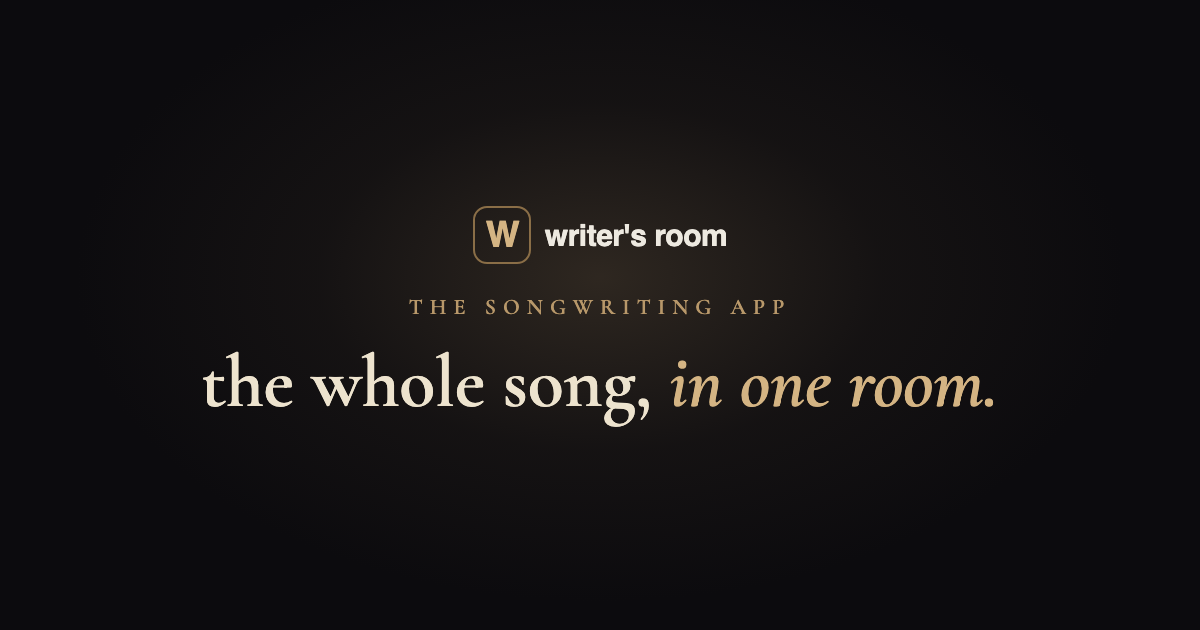
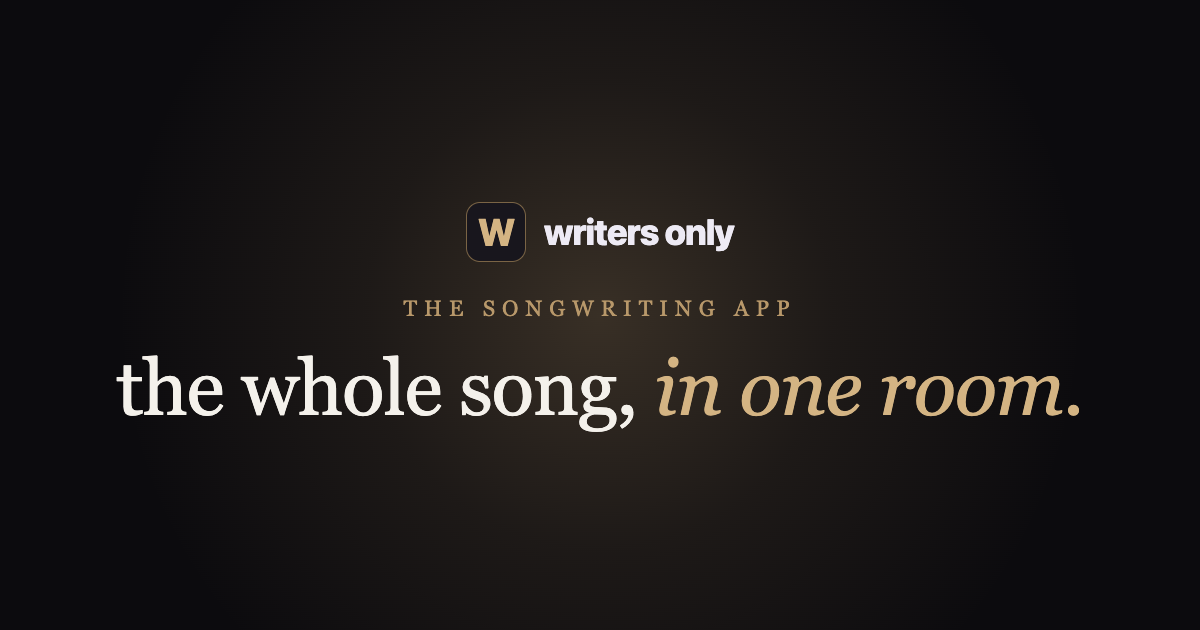
Writers Only: the new name across every page, and the link preview card re-drawn

Changed region(s): [[0.0925, 0.5429, 0.8942, 0.6937], [0.37, 0.3016, 0.6167, 0.4222], [0.3392, 0.4524, 0.6475, 0.5127]]

diff --git a/index.html b/index.html
@@ -4,10 +4,10 @@
 <meta charset="utf-8" />
 <meta name="viewport" content="width=device-width, initial-scale=1" />
 <meta name="theme-color" content="#0C0B0E" />
-<title>Henri Audio &mdash; Writer's Room</title>
+<title>Henri Audio &mdash; Writers Only</title>
 <link rel="canonical" href="https://henriaudio.com/" />
-<meta name="description" content="Writer's Room by Henri Audio &mdash; the songwriting app. Lyrics, voice memos, references, and your co-writers in one place. Your work stays yours." />
-<meta property="og:title" content="Writer's Room &mdash; by Henri Audio" />
+<meta name="description" content="Writers Only by Henri Audio &mdash; the songwriting app. Lyrics, voice memos, references, and your co-writers in one place. Your work stays yours." />
+<meta property="og:title" content="Writers Only &mdash; by Henri Audio" />
 <meta property="og:description" content="Where songs actually get written. Lyrics, voice memos, and co-writers in one place." />
 <meta property="og:type" content="website" />
 <meta property="og:url" content="https://henriaudio.com/" />
@@ -15,7 +15,7 @@
 <meta property="og:image:width" content="1200" />
 <meta property="og:image:height" content="630" />
 <meta name="twitter:card" content="summary_large_image" />
-<meta name="twitter:title" content="Writer's Room &mdash; by Henri Audio" />
+<meta name="twitter:title" content="Writers Only &mdash; by Henri Audio" />
 <meta name="twitter:description" content="Where songs actually get written. Lyrics, voice memos, and co-writers in one place." />
 <meta name="twitter:image" content="https://henriaudio.com/assets/share-card.png" />
 <style>
@@ -448,10 +448,10 @@
         "width": 512,
         "height": 512
       },
-      "description": "Henri Audio makes Writer's Room, a songwriting app, plus Record Room and the Utility Deck plugin.",
+      "description": "Henri Audio makes Writers Only, a songwriting app, plus Record Room and the Utility Deck plugin.",
       "email": "team@henriaudio.com",
       "brand": [
-        { "@type": "Brand", "name": "Writer's Room" },
+        { "@type": "Brand", "name": "Writers Only" },
         { "@type": "Brand", "name": "Record Room" },
         { "@type": "Brand", "name": "Utility Deck" }
       ],
@@ -463,7 +463,7 @@
       "@type": "WebSite",
       "@id": "https://henriaudio.com/#website",
       "name": "Henri Audio",
-      "alternateName": ["henriaudio.com", "Writer's Room by Henri Audio"],
+      "alternateName": ["henriaudio.com", "Writers Only by Henri Audio"],
       "url": "https://henriaudio.com/",
       "publisher": { "@id": "https://henriaudio.com/#organization" }
     }
@@ -502,7 +502,7 @@
       <span class="brand-name">Henri Audio</span>
     </div>
     <div class="tabs">
-      <button class="tab active" data-tab="room">Writer's Room</button>
+      <button class="tab active" data-tab="room">Writers Only</button>
       <a class="tab" href="/record-room/">Record Room</a>
       <a class="tab" href="/deck/">Plugins</a>
       <button class="tab" data-tab="about">About</button>
@@ -514,31 +514,31 @@
 
 <main class="wrap">
 
-  <!-- Writer's Room -->
+  <!-- Writers Only -->
   <section class="panel active" id="room">
     <div class="hero-grid">
       <div class="glow" aria-hidden="true"></div>
 
       <div class="hero-copy">
         <div class="inapp-note" role="note">
-          <span>You're inside <b class="inapp-name">Instagram</b>'s browser. Writer's Room runs smoother in <b class="inapp-browser">Safari</b>: tap <b>•••</b> at the top and open this page in your browser.</span>
+          <span>You're inside <b class="inapp-name">Instagram</b>'s browser. Writers Only runs smoother in <b class="inapp-browser">Safari</b>: tap <b>•••</b> at the top and open this page in your browser.</span>
           <button type="button" class="inapp-x" aria-label="Dismiss" onclick="this.parentNode.remove()">×</button>
         </div>
-        <img class="hero-logo" src="assets/icon.png" alt="Writer's Room" />
+        <img class="hero-logo" src="assets/icon.png" alt="Writers Only" />
         <div class="eyebrow">A Henri Audio product</div>
-        <h1>Writer's Room</h1>
+        <h1>Writers Only</h1>
         <p class="lede">The whole song, in one room.</p>
         <p class="sub">Your lyrics, voice memos, ideas, and co-writers. Finally together, in one place built for writing songs.</p>
         <p class="trust"><b>Your work stays yours.</b> Never sold, never used to train AI.</p>
 
-        <p class="beta-offer">The first <strong>250 beta users</strong> get Writer’s Room <strong>free for life.</strong></p>
+        <p class="beta-offer">The first <strong>250 beta users</strong> get Writers Only <strong>free for life.</strong></p>
         <form class="beta" id="beta-form" onsubmit="joinBeta(event)">
           <input id="wl-name" type="text" autocomplete="name" placeholder="Your name" aria-label="Your name" />
           <input id="wl-email" type="email" inputmode="email" autocomplete="email" placeholder="you@email.com" aria-label="Email address" />
           <button id="wl-btn" type="submit">Join the beta</button>
         </form>
         <p class="beta-note">Works in your browser on phone and desktop. Join the beta, then create your account.</p>
-        <p class="signin-row">Already joined? <a href="https://app.henriaudio.com/">Open Writer's Room →</a></p>
+        <p class="signin-row">Already joined? <a href="https://app.henriaudio.com/">Open Writers Only →</a></p>
         <a class="watch-link" href="#launch-story">Watch why I built it ↗</a>
         <div class="form-msg" id="form-msg"></div>
       </div>
@@ -664,18 +664,18 @@
 
     <section class="founder-film" id="launch-story" aria-labelledby="film-heading">
       <div>
-        <div class="film-label">The story behind Writer’s Room</div>
+        <div class="film-label">The story behind Writers Only</div>
         <h2 id="film-heading">Built in the room<br>where <em>songs happen.</em></h2>
-        <p>I was tired of my writing being scattered across different apps. So I spent four months building Writer’s Room in the same room where I run my sessions.</p>
+        <p>I was tired of my writing being scattered across different apps. So I spent four months building Writers Only in the same room where I run my sessions.</p>
         <p>Here’s what I made, and why.</p>
         <a class="watch-link" href="#beta-form">Join the beta ↗</a>
       </div>
       <div class="film-player">
-        <video id="launch-video" controls playsinline preload="none" poster="/assets/launch-cover.jpg" aria-label="Writer’s Room introduction by its founder">
+        <video id="launch-video" controls playsinline preload="none" poster="/assets/launch-cover.jpg" aria-label="Writers Only introduction by its founder">
           <source src="/assets/launch-film.mp4?v=new-audio" type="video/mp4">
-          <a href="/assets/launch-film.mp4?v=new-audio">Watch the Writer’s Room introduction</a>
+          <a href="/assets/launch-film.mp4?v=new-audio">Watch the Writers Only introduction</a>
         </video>
-        <button class="film-play" id="film-play" aria-label="Play the Writer’s Room introduction"><span aria-hidden="true">▶</span>Watch the story · 57 seconds</button>
+        <button class="film-play" id="film-play" aria-label="Play the Writers Only introduction"><span aria-hidden="true">▶</span>Watch the story · 57 seconds</button>
       </div>
     </section>
     <div class="waveline" id="waveline" aria-hidden="true"></div>
@@ -689,7 +689,7 @@
     <section class="faq-section" aria-labelledby="faq-heading">
       <div class="film-label">A few things to know</div>
       <h2 id="faq-heading">Before you step into the room.</h2>
-      <details><summary>Do I need to download an app?</summary><p>No. Writer’s Room runs in your browser on your phone or desktop. Join the beta above, then create your account with the same email address.</p></details>
+      <details><summary>Do I need to download an app?</summary><p>No. Writers Only runs in your browser on your phone or desktop. Join the beta above, then create your account with the same email address.</p></details>
       <details><summary>Can I write with other people?</summary><p>Yes. Invite your co-writers into a room and work on the same lyrics in real time. Your scratch pad stays private until you choose to share it with the room.</p></details>
       <details><summary>Does the writing help write my song for me?</summary><p>No. The Stuck button reads your song for context and offers suggestions to help you think through a weak line or find a direction. You make the choices and write the song.</p></details>
       <details><summary>Will my writing be used to train AI?</summary><p>No. Your work stays yours. It is never sold or used to train AI.</p></details>
@@ -697,9 +697,9 @@
     <section class="closing-invite" aria-labelledby="closing-heading">
       <div class="film-label">The beta is open</div>
       <h2 id="closing-heading">Your next song starts here.</h2>
-      <p>The first 250 beta users get Writer’s Room free for life.</p>
+      <p>The first 250 beta users get Writers Only free for life.</p>
       <a class="closing-button" href="#beta-form">Join the beta ↗</a>
-      <span class="closing-signin">Already joined? <a href="https://app.henriaudio.com/">Open Writer's Room →</a></span>
+      <span class="closing-signin">Already joined? <a href="https://app.henriaudio.com/">Open Writers Only →</a></span>
       <span>Made for the way you actually write.</span>
     </section>
   </section>
@@ -710,7 +710,7 @@
       <h2>Henri Audio</h2>
       <p class="kicker">The tools we always wished we had.</p>
       <p>Henri Audio makes tools for musicians &mdash; designed by people who actually do the work, for the way it really happens. Built by an actual producer-songwriter, not a software company guessing at it.</p>
-      <p>We started with the part we know best. <b style="color:var(--text);font-weight:600">Writer's Room</b>, our first product, is one home for the lyrics, voice memos, references, and co-writers a song usually scatters across a dozen apps.</p>
+      <p>We started with the part we know best. <b style="color:var(--text);font-weight:600">Writers Only</b>, our first product, is one home for the lyrics, voice memos, references, and co-writers a song usually scatters across a dozen apps.</p>
       <p>Our north star is simple: tools that <b style="color:var(--dim);font-weight:600">serve</b> musicians, never replace them. Whatever we build, your work stays yours &mdash; never sold, never used to train AI.</p>
       <p>This is just the beginning.</p>
     </div>
@@ -805,7 +805,7 @@
         '<div class="beta-success">' +
           '<div class="bs-head">You’re in.</div>' +
           '<p class="bs-body">No waiting. Create your account with this same email and start writing. It runs right in your browser, on your phone too.</p>' +
-          '<a class="bs-cta" href="https://app.henriaudio.com/?email=' + encodeURIComponent(email) + '">Open Writer’s Room</a>' +
+          '<a class="bs-cta" href="https://app.henriaudio.com/?email=' + encodeURIComponent(email) + '">Open Writers Only</a>' +
           '<p class="bs-inapp">Tip: tap ••• at the top and open this in ' + (document.documentElement.dataset.browser || 'your browser') + ' first. It runs smoother there.</p>' +
         '</div>';
       document.querySelectorAll('.signin-row').forEach((n) => n.remove());

diff --git a/privacy/index.html b/privacy/index.html
@@ -26,7 +26,7 @@
   <h1>Privacy Policy</h1>
   <div class="date">Last updated: September 27, 2026</div>
 
-  <p>Henri Audio makes Writer's Room, a songwriting app, and audio plugins like Utility Deck. Your lyrics, ideas, and mixes are personal and often unreleased, and we treat them that way. This policy covers the apps and this website. It explains what we collect, how we use it, and the control you have. We've kept it in plain English.</p>
+  <p>Henri Audio makes Writers Only, a songwriting app, and audio plugins like Utility Deck. Your lyrics, ideas, and mixes are personal and often unreleased, and we treat them that way. This policy covers the apps and this website. It explains what we collect, how we use it, and the control you have. We've kept it in plain English.</p>
 
   <div class="callout">
     <p style="margin:0;"><strong>Our plugins collect nothing.</strong> Utility Deck runs entirely on your computer. It has no account, no sign-in, and no tracking &mdash; it never sends anything anywhere. Your audio never leaves your machine.</p>
@@ -81,14 +81,14 @@
   <p>Your data is encrypted in transit, and access is locked down so you can only reach your own work and the rooms you've been invited to. We keep your information for as long as your account is active, and erase it when you delete your account, as described above.</p>
 
   <h2>Children</h2>
-  <p>Writer's Room is not directed to children under 13, and we don't knowingly collect their information.</p>
+  <p>Writers Only is not directed to children under 13, and we don't knowingly collect their information.</p>
 
   <h2>Changes to this policy</h2>
   <p>If we make meaningful changes, we'll update the date above and, where appropriate, let you know in the app.</p>
 
   <div class="foot">
     Questions about your privacy? Email <a href="mailto:team@henriaudio.com">team@henriaudio.com</a> and a real person will get back to you.<br/>
-    Writer's Room and Utility Deck are products of <a href="/">Henri Audio</a>.
+    Writers Only and Utility Deck are products of <a href="/">Henri Audio</a>.
   </div>
 </div>
 </body>

diff --git a/record-room/index.html b/record-room/index.html
@@ -71,7 +71,7 @@
 
   @media (max-width:880px) { h1 { font-size:42px; letter-spacing:-1.4px; } form.notify { flex-direction:column; } }
   @media (prefers-reduced-motion: reduce) { .glow { animation:none !important; } }
-  /* The same top bar on every page (Sep 24): the Writer's Room page gained "Open the app",
+  /* The same top bar on every page (Sep 24): the Writers Only page gained "Open the app",
      which moved its tabs to the centre while these pages kept them on the right. David: the bar
      must not move between pages. */
   .nav-app { flex:none; display:inline-flex; align-items:center; margin-left:10px; color:var(--gold-bright); border:1.5px solid var(--gold-muted); border-radius:11px; font-size:14px; font-weight:700; padding:7px 13px; white-space:nowrap; text-decoration:none; transition:border-color .15s, color .15s; }
@@ -88,7 +88,7 @@
       <span class="brand-name">Henri Audio</span>
     </a>
     <div class="tabs">
-      <a class="tab" href="/">Writer's Room</a>
+      <a class="tab" href="/">Writers Only</a>
       <a class="tab active" href="/record-room/">Record Room</a>
       <a class="tab" href="/deck/">Plugins</a>
       <a class="tab" href="/#about">About</a>
@@ -117,7 +117,7 @@
   <div class="foot-inner">
     <div>&copy; 2026 Henri Audio</div>
     <div class="foot-links">
-      <a href="/">Writer's Room</a><a href="/deck/">Plugins</a><a href="/privacy/">Privacy</a><a href="/terms/">Terms</a>
+      <a href="/">Writers Only</a><a href="/deck/">Plugins</a><a href="/privacy/">Privacy</a><a href="/terms/">Terms</a>
     </div>
   </div>
 </footer>

diff --git a/beta/index.html b/beta/index.html
@@ -3,11 +3,11 @@
 <head>
 <meta charset="utf-8" />
 <meta name="viewport" content="width=device-width, initial-scale=1" />
-<title>Writer's Room &mdash; Early Access</title>
+<title>Writers Only &mdash; Early Access</title>
 <meta name="robots" content="noindex" />
 <link rel="canonical" href="https://henriaudio.com/" />
-<meta name="description" content="Get early access to Writer's Room by Henri Audio — the songwriting app that keeps your lyrics, voice memos, references, and co-writers in one place." />
-<meta property="og:title" content="Writer's Room — Early Access" />
+<meta name="description" content="Get early access to Writers Only by Henri Audio — the songwriting app that keeps your lyrics, voice memos, references, and co-writers in one place." />
+<meta property="og:title" content="Writers Only — Early Access" />
 <meta property="og:description" content="The whole song, in one room. Join the early-access beta." />
 <meta property="og:type" content="website" />
 <!--
@@ -24,6 +24,6 @@
 <meta http-equiv="refresh" content="0; url=/?ref=beta-link" />
 </head>
 <body style="margin:0;background:#0C0B0E;color:#EDEAF4;font-family:-apple-system,BlinkMacSystemFont,'Segoe UI',Helvetica,Arial,sans-serif;padding:48px 24px;text-align:center">
-  <a href="/?ref=beta-link" style="color:#D4B483;font-weight:700;text-decoration:none">Continue to Writer's Room →</a>
+  <a href="/?ref=beta-link" style="color:#D4B483;font-weight:700;text-decoration:none">Continue to Writers Only →</a>
 </body>
 </html>

diff --git a/deck/index.html b/deck/index.html
@@ -111,7 +111,7 @@
     .glow { animation:none !important; }
     .feat { transition:none; }
   }
-  /* The same top bar on every page (Sep 24): the Writer's Room page gained "Open the app",
+  /* The same top bar on every page (Sep 24): the Writers Only page gained "Open the app",
      which moved its tabs to the centre while these pages kept them on the right. David: the bar
      must not move between pages. */
   .nav-app { flex:none; display:inline-flex; align-items:center; margin-left:10px; color:var(--gold-bright); border:1.5px solid var(--gold-muted); border-radius:11px; font-size:14px; font-weight:700; padding:7px 13px; white-space:nowrap; text-decoration:none; transition:border-color .15s, color .15s; }
@@ -128,7 +128,7 @@
       <span class="brand-name">Henri Audio</span>
     </a>
     <div class="tabs">
-      <a class="tab" href="/">Writer's Room</a>
+      <a class="tab" href="/">Writers Only</a>
       <a class="tab" href="/record-room/">Record Room</a>
       <a class="tab active" href="/deck/">Plugins</a>
       <a class="tab" href="/#about">About</a>
@@ -186,7 +186,7 @@
   <div class="foot-inner">
     <div>&copy; 2026 Henri Audio</div>
     <div class="foot-links">
-      <a href="/">Writer's Room</a><a href="/privacy/">Privacy</a><a href="/terms/">Terms</a>
+      <a href="/">Writers Only</a><a href="/privacy/">Privacy</a><a href="/terms/">Terms</a>
     </div>
   </div>
 </footer>

diff --git a/dmca/index.html b/dmca/index.html
@@ -3,7 +3,7 @@
 <head>
 <meta charset="utf-8" />
 <meta name="viewport" content="width=device-width, initial-scale=1" />
-<title>Writer's Room &mdash; Copyright / DMCA Policy</title>
+<title>Writers Only &mdash; Copyright / DMCA Policy</title>
 <link rel="canonical" href="https://henriaudio.com/dmca/" />
 <style>
   body { margin: 0; background: #f6f4ef; color: #2a2722; font-family: -apple-system, BlinkMacSystemFont, "Segoe UI", Helvetica, Arial, sans-serif; line-height: 1.65; }
@@ -22,7 +22,7 @@
 </head>
 <body>
 <div class="wrap">
-  <div class="brand">Writer's Room</div>
+  <div class="brand">Writers Only</div>
   <h1>Copyright / DMCA Policy</h1>
   <div class="date">Last updated: June 28, 2026</div>
 

diff --git a/terms/index.html b/terms/index.html
@@ -3,7 +3,7 @@
 <head>
 <meta charset="utf-8" />
 <meta name="viewport" content="width=device-width, initial-scale=1" />
-<title>Writer's Room &mdash; Terms of Service</title>
+<title>Writers Only &mdash; Terms of Service</title>
 <link rel="canonical" href="https://henriaudio.com/terms/" />
 <style>
   body { margin: 0; background: #f6f4ef; color: #2a2722; font-family: -apple-system, BlinkMacSystemFont, "Segoe UI", Helvetica, Arial, sans-serif; line-height: 1.65; }
@@ -22,7 +22,7 @@
 </head>
 <body>
 <div class="wrap">
-  <div class="brand">Writer's Room</div>
+  <div class="brand">Writers Only</div>
   <h1>Terms of Service</h1>
   <div class="date">Last updated: September 27, 2026</div>
 
